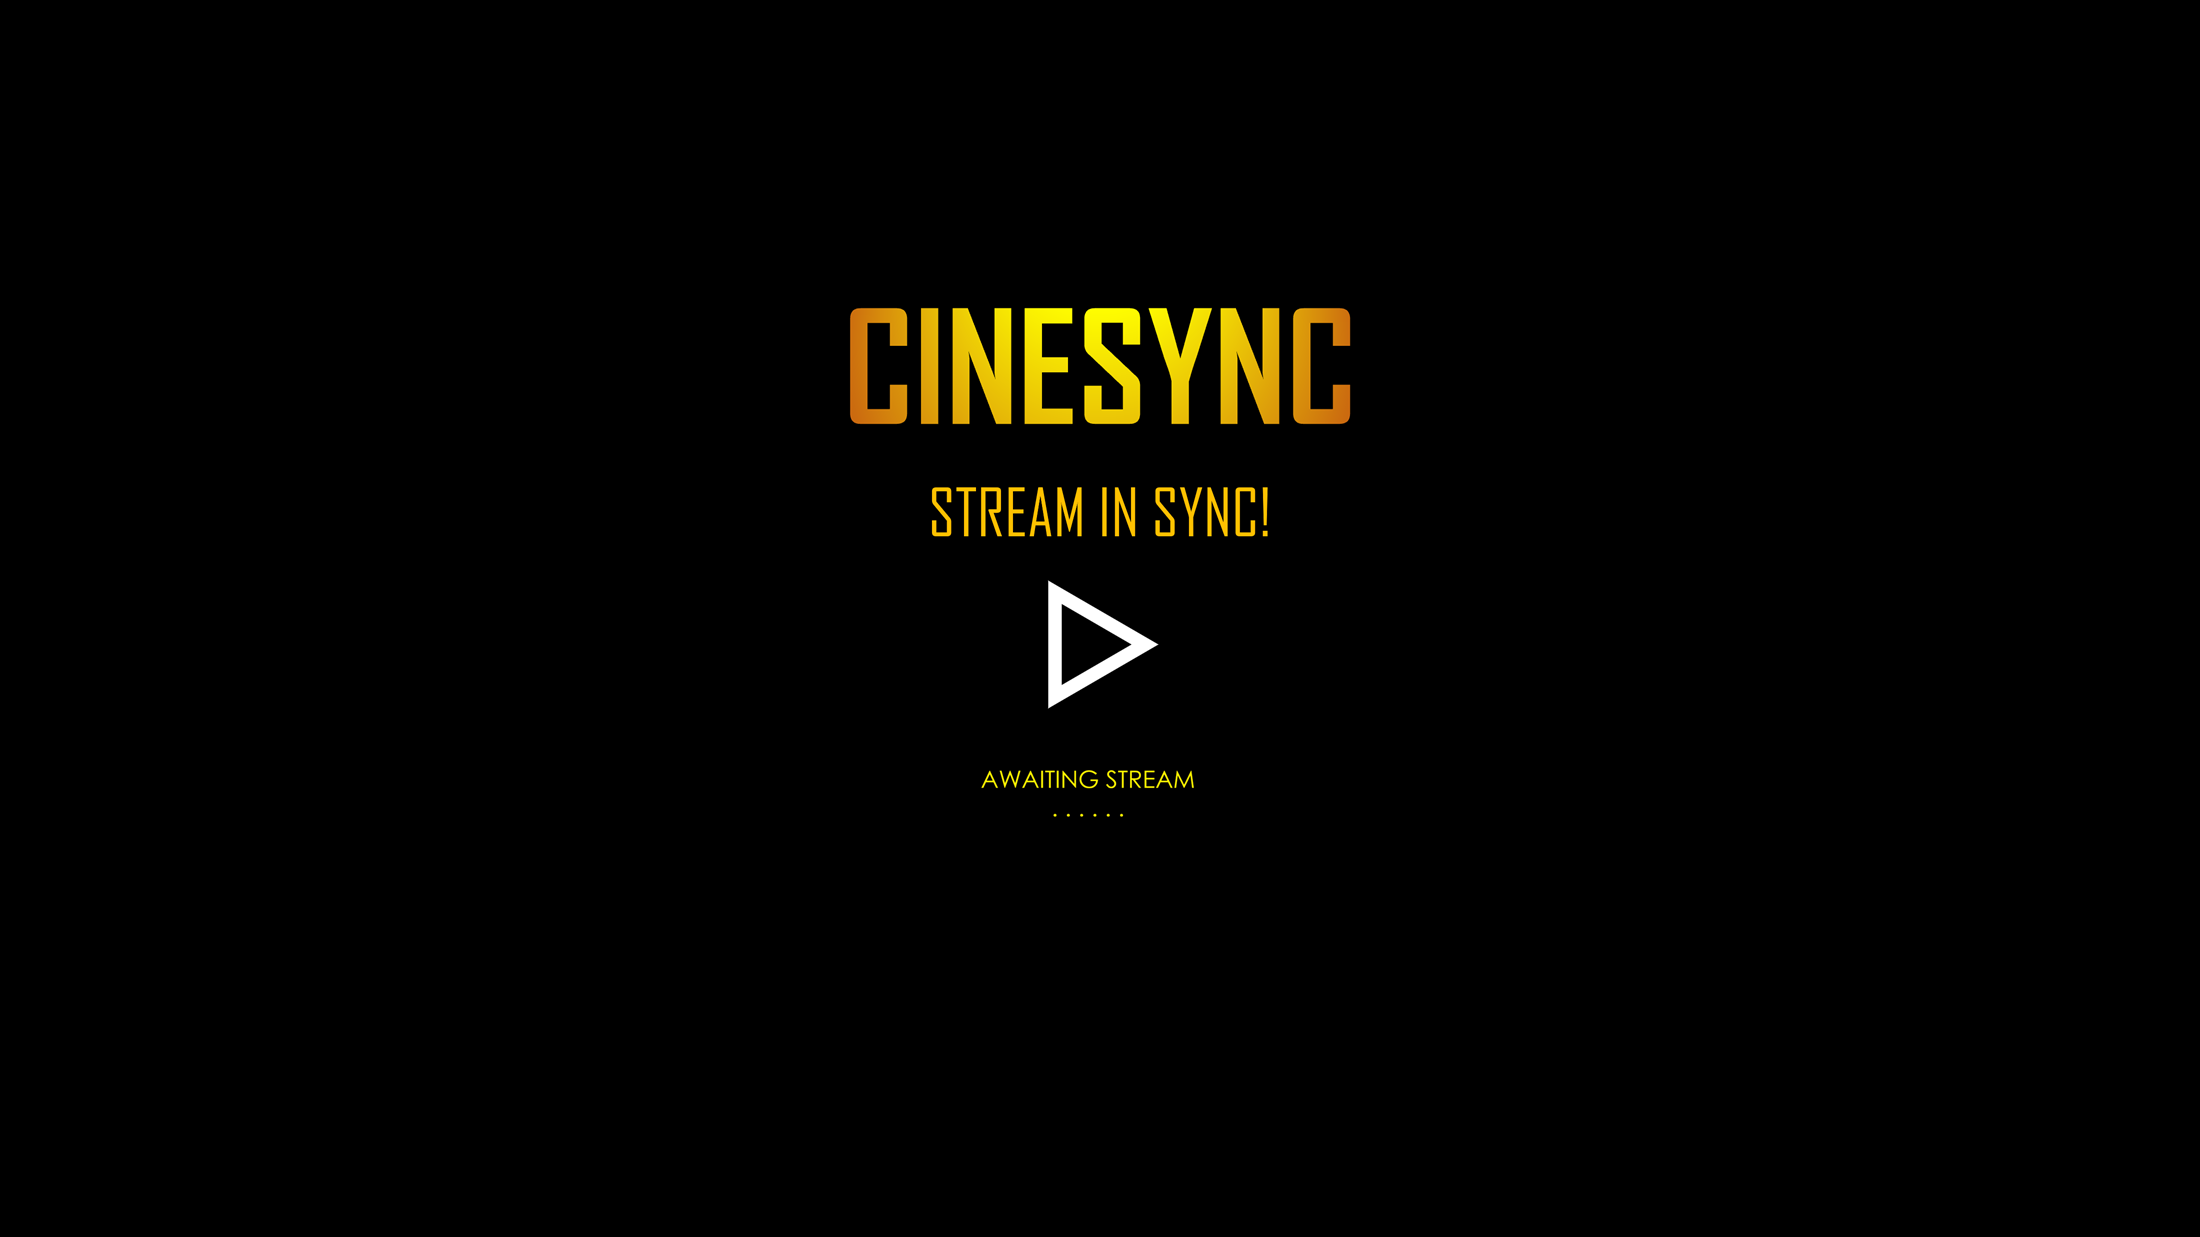
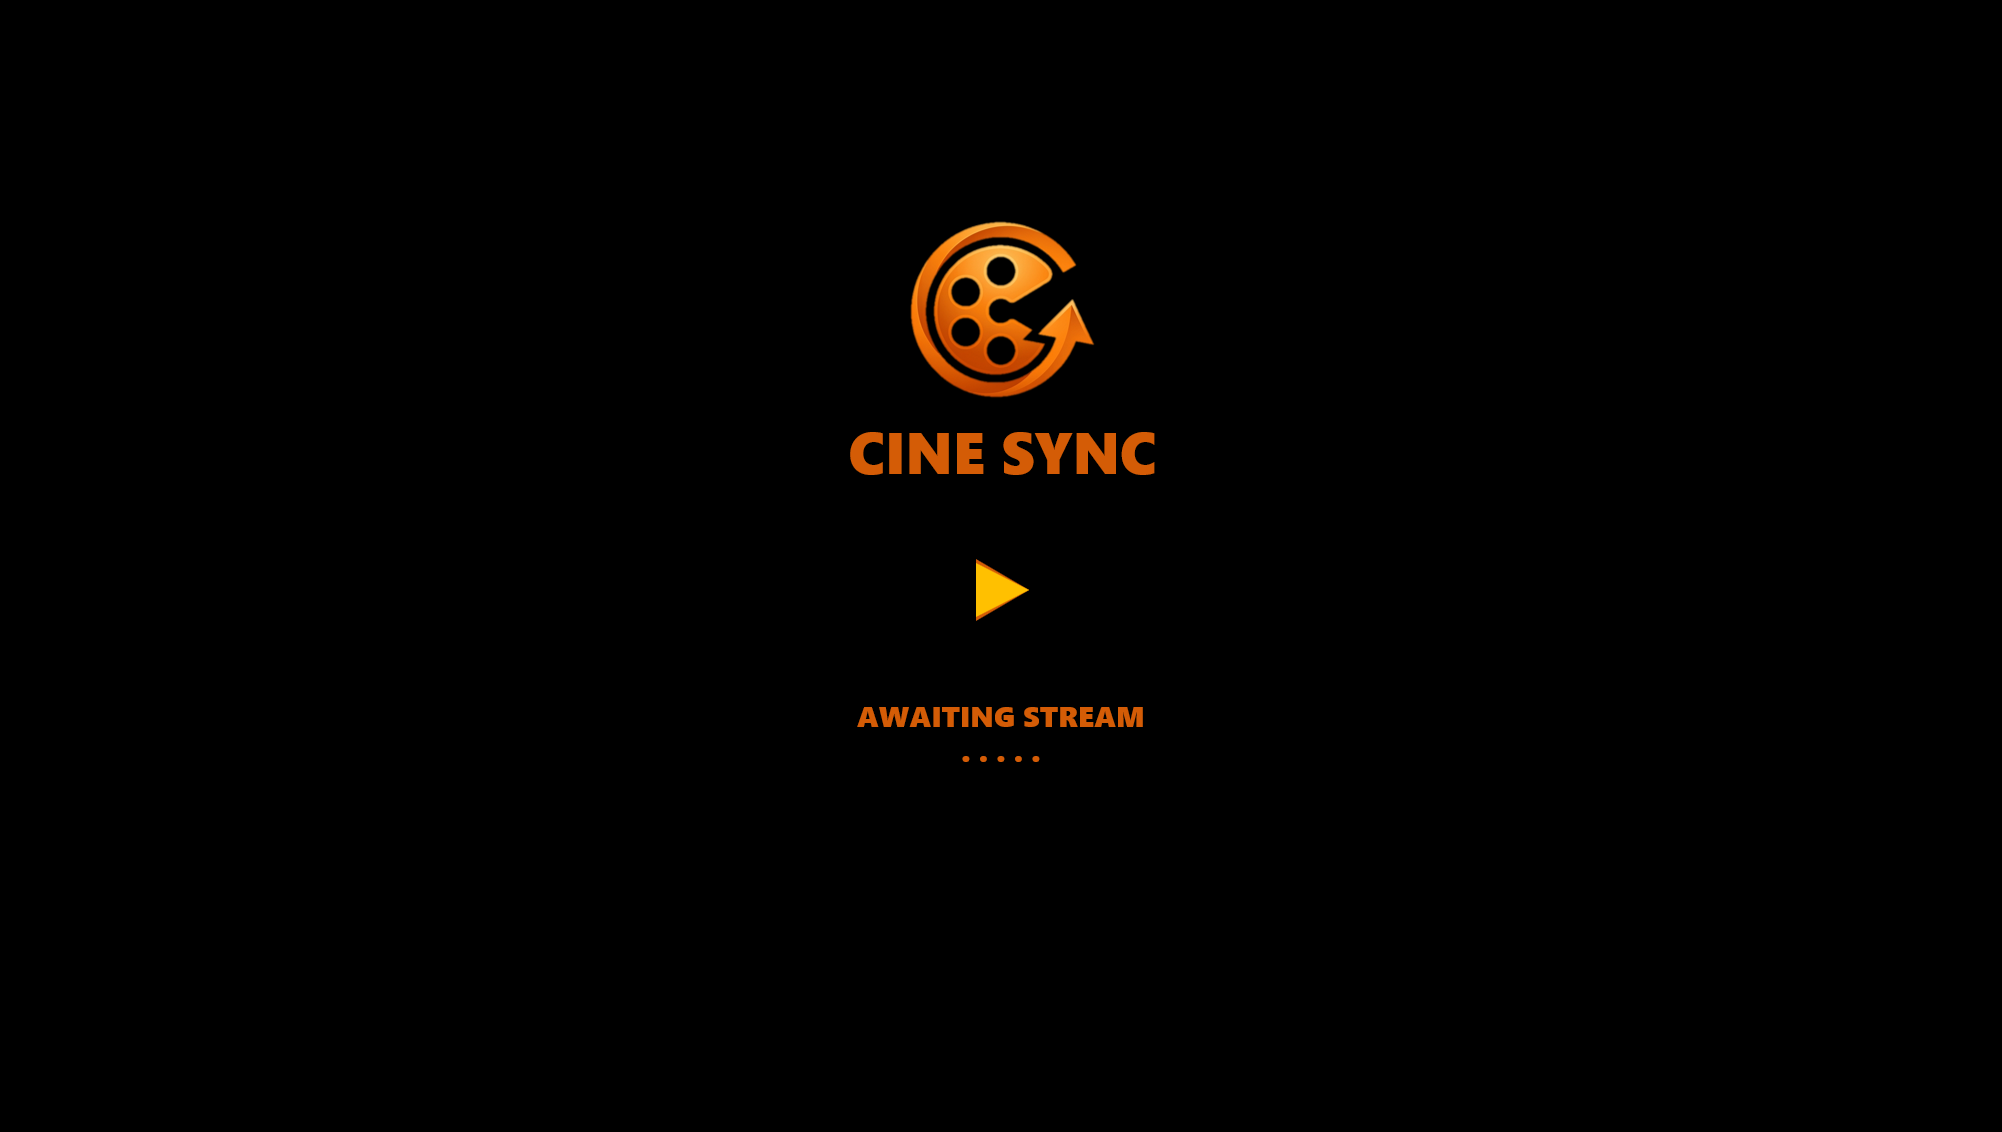
LogoReveal Aesthetics

Changed region(s): [[0.3716, 0.1855, 0.6194, 0.4329], [0.4645, 0.4638, 0.5265, 0.5875], [0.4336, 0.6184, 0.5884, 0.6493]]

diff --git a/tv/index.html b/tv/index.html
@@ -3,7 +3,7 @@
 <head>
     <meta charset="UTF-8">
     <meta name="viewport" content="width=device-width, initial-scale=1.0">
-    <title>CineSync TV (Vanilla JS)</title>
+    <title>CineSync TV</title>
     
     <script src="https://cdn.socket.io/4.7.2/socket.io.min.js"></script>
     <script src="https://cdn.jsdelivr.net/npm/hls.js@latest"></script>
@@ -28,6 +28,59 @@
             overflow: hidden;
         }
 
+        /* --- INTRO & WELCOME SCREEN --- */
+        #intro-screen {
+            position: fixed;
+            top: 0; left: 0;
+            width: 100vw; height: 100vh;
+            background-color: #000;
+            z-index: 9999;
+            display: flex;
+            align-items: center;
+            justify-content: center;
+            transition: opacity 1s ease-in-out;
+        }
+
+        #welcome-content {
+            background: rgba(20, 20, 20, 0.95);
+            padding: 40px;
+            border-radius: 15px;
+            box-shadow: 0 10px 40px rgba(0,0,0,0.8);
+            text-align: center;
+            z-index: 2;
+            border: 1px solid #333;
+            zoom: 1.2;
+        }
+
+        #welcome-content h2 { margin: 0 0 10px 0; color: var(--brand-color); font-weight: 800;}
+        #welcome-content p { font-size: 1.2rem; margin: 10px 0 25px 0; color: #ccc;}
+        #watchNameDisplay { font-size: 1.8rem; color: #fff; font-weight: bold; display: block; margin-top: 5px; }
+        
+        #btnWelcomeOk {
+            width: auto;
+            padding: 12px 50px;
+            border-radius: 8px;
+            margin: 0 auto;
+            font-size: 1.5rem;
+            font-weight: bold;
+            background: var(--brand-color);
+            color: #fff;
+            border: 2px solid transparent;
+            cursor: pointer;
+            box-shadow: var(--focus-glow);
+            outline: 3px solid #fff;
+            outline-offset: 3px;
+        }
+
+        #intro-video {
+            position: absolute;
+            top: 0; left: 0;
+            width: 100%; height: 100%;
+            object-fit: cover;
+            display: none; /* Hidden until OK is clicked */
+            z-index: 1;
+        }
+
         /* --- VIDEO LAYER --- */
         #video-container {
             position: absolute;
@@ -42,9 +95,8 @@
         }
 
         video::cue {
-            font-size: 0.7em; /* Change this value to adjust font size */
-            color: white;    /* Change text color */
-            background: rgba(0, 0, 0, 0.7); /* Background color with transparency */
+            color: #fff; background: transparent;
+            font-size: 0.7em; text-shadow: 0 2px 4px #000, 0 0 8px #000;
         }
 
         /* --- UI OVERLAY LAYER --- */
@@ -111,7 +163,6 @@
             cursor: pointer;
         }
 
-        /* CC Active Indicator */
         .tv-btn.active {
             background: rgba(255, 255, 255, 0.95) !important;
             color: var(--bg-color) !important;
@@ -213,31 +264,21 @@
             margin-bottom: 20px;
         }
 
-        #qr-canvas img {
-            display: block;
-        }
-
-        .qr-text {
-            font-size: 1.4rem;
-            font-weight: 600;
-            text-align: center;
-            max-width: 500px;
-        }
-
-        .qr-subtext {
-            font-size: 1rem;
-            opacity: 0.6;
-            margin-top: 10px;
-        }
-
-        /* Decreased Subtitle Size */
-        video::cue {
-            color: #fff; background: transparent;
-            font-size: 0.7em; text-shadow: 0 2px 4px #000, 0 0 8px #000;
-        }
+        #qr-canvas img { display: block; }
+        .qr-text { font-size: 1.4rem; font-weight: 600; text-align: center; max-width: 500px; }
+        .qr-subtext { font-size: 1rem; opacity: 0.6; margin-top: 10px; }
     </style>
 </head>
 <body>
+
+<div id="intro-screen">
+    <div id="welcome-content">
+        <h2>Welcome</h2>
+        <p>Your watch name is:<br><span id="watchNameDisplay">blue-glaring-panda</span></p>
+        <button id="btnWelcomeOk">OK</button>
+    </div>
+    <video id="intro-video" src="cinesync.mov" playsinline></video>
+</div>
 
 <div id="video-container">
     <video id="mediaPlayer" playsinline crossorigin="anonymous" poster="player-standby.png"></video>
@@ -254,7 +295,7 @@
             <span style="opacity: 0.5;">|</span>
             <span>#<span id="roomCodeDisplay">...</span></span>
             <span style="opacity: 0.5;">|</span>
-            <span>v1.0.4</span>
+            <span>v1.0.5</span>
         </div>
     </div>
 
@@ -288,6 +329,54 @@
 </div>
 
 <script>
+    // --- 0. INTRO REVEAL LOGIC ---
+    let isWelcomeScreen = true; // Traps D-pad focus until OK is pressed
+    
+    const introScreen = document.getElementById('intro-screen');
+    const welcomeContent = document.getElementById('welcome-content');
+    const introVideo = document.getElementById('intro-video');
+    const btnWelcomeOk = document.getElementById('btnWelcomeOk');
+    const watchNameDisplay = document.getElementById('watchNameDisplay');
+
+    // Generate a random watch name
+    const adjectives = ['blue', 'glaring', 'sleepy', 'rapid', 'quiet', 'fierce', 'gentle', 'bold', 'lucky', 'clever'];
+    const animals = ['panda', 'fox', 'tiger', 'bear', 'wolf', 'eagle', 'dolphin', 'owl', 'hawk', 'koala'];
+    const randomAdjective1 = adjectives[Math.floor(Math.random() * adjectives.length)];
+    const randomAdjective2 = adjectives[Math.floor(Math.random() * adjectives.length)];
+    const randomAnimal = animals[Math.floor(Math.random() * animals.length)];
+    watchNameDisplay.innerText = `${randomAdjective1}-${randomAdjective2}-${randomAnimal}`;
+
+    // Handle OK Click (User Gesture unlocks Audio)
+    btnWelcomeOk.addEventListener('click', startIntroSequence);
+
+    function startIntroSequence() {
+        isWelcomeScreen = false;
+        welcomeContent.style.display = 'none';
+        introVideo.style.display = 'block';
+        
+        // Safety fallback: if video fails to play, clear screen after 8s
+        let introFallbackTimer = setTimeout(dismissIntro, 8000);
+
+        introVideo.play().catch(e => {
+            console.warn("Playback blocked or failed:", e);
+            dismissIntro(); 
+        });
+
+        introVideo.onended = () => {
+            clearTimeout(introFallbackTimer);
+            dismissIntro();
+        };
+    }
+
+    function dismissIntro() {
+        introScreen.style.opacity = '0';
+        setTimeout(() => {
+            introScreen.style.display = 'none';
+            // Start listening to regular UI focus
+            renderFocus();
+        }, 1000);
+    }
+
     // --- 1. CORE PROPERTIES ---
     const SOCKET_URL = "https://socket.elvistony.dev";
     let socket = null;
@@ -323,6 +412,8 @@
     let previousTopRowIndex = 1;
 
     function renderFocus() {
+        if (isWelcomeScreen) return; // Prevent focus rings from showing behind the welcome modal
+
         focusables.forEach(el => el.classList.remove('tv-focused'));
         if (qrModal.classList.contains('active')) return; 
         focusables[currentFocusIndex].classList.add('tv-focused');
@@ -332,22 +423,20 @@
         }
     }
 
-    renderFocus();
-
     uiLayer.addEventListener('click', (e) => {
-        showUI();
+        if (!isWelcomeScreen) showUI();
     });
 
     focusables.forEach((el, index) => {
         el.addEventListener('mouseenter', () => {
-            if (qrModal.classList.contains('active')) return;
+            if (qrModal.classList.contains('active') || isWelcomeScreen) return;
             currentFocusIndex = index;
             renderFocus();
         });
 
         el.addEventListener('click', (e) => {
             e.stopPropagation(); 
-            if (qrModal.classList.contains('active')) return;
+            if (qrModal.classList.contains('active') || isWelcomeScreen) return;
             
             currentFocusIndex = index;
             renderFocus();
@@ -369,6 +458,15 @@
     });
 
     document.addEventListener('keydown', (e) => {
+        // Trap focus if we are on the welcome screen
+        if (isWelcomeScreen) {
+            if (e.key === 'Enter' || e.key === ' ') {
+                e.preventDefault();
+                startIntroSequence();
+            }
+            return;
+        }
+
         if (qrModal.classList.contains('active')) {
             e.preventDefault();
             if (e.key === 'Enter' || e.key === ' ') {
@@ -555,7 +653,7 @@
 
     let uiTimeout;
     function showUI() {
-        if (qrModal.classList.contains('active')) return;
+        if (qrModal.classList.contains('active') || isWelcomeScreen) return;
         uiLayer.style.opacity = '1';
         clearTimeout(uiTimeout);
         if (!video.paused) {
@@ -631,11 +729,9 @@
         try {
             let res;
             try {
-                // Attempt standard fetch
                 res = await fetch(vttUrl);
                 if (!res.ok) throw new Error("Network response was not ok");
             } catch (corsError) {
-                // If CORS blocks it, route through a public proxy
                 console.warn("Direct subtitle fetch blocked by CORS. Using proxy...");
                 res = await fetch(`https://corsproxy.io/?${encodeURIComponent(vttUrl)}`);
                 if (!res.ok) throw new Error("Proxy fetch failed");
@@ -643,13 +739,11 @@
             
             let text = await res.text();
             
-            // If no offset is needed, just return the blob directly
             if (offsetMs === 0) {
                 const blob = new Blob([text], { type: 'text/vtt' });
                 return URL.createObjectURL(blob);
             }
             
-            // Regex to match standard VTT timestamps (HH:MM:SS.mmm or MM:SS.mmm)
             const timeRegex = /(?:(\d{2,}):)?(\d{2}):(\d{2})\.(\d{3})/g;
             
             text = text.replace(timeRegex, (match, h, m, s, ms) => {
@@ -657,7 +751,7 @@
                 if (h) time += parseInt(h) * 3600000;
                 
                 time += offsetMs;
-                if (time < 0) time = 0; // Prevent negative time
+                if (time < 0) time = 0;
                 
                 const newH = Math.floor(time / 3600000);
                 time %= 3600000;
@@ -674,7 +768,7 @@
             return URL.createObjectURL(blob);
         } catch (e) {
             console.error("Critical failure fetching subtitles:", e);
-            return vttUrl; // Fallback to raw URL as a last resort
+            return vttUrl; 
         }
     }
 
@@ -686,7 +780,14 @@
         const url = context.url;
         if (!url) return;
 
-        // Catch embedded third-party streams and route to standalone iframe player
+        // Redirect Mode
+        if (url.startsWith("@REDIRECT@")) {
+            const redirectUrl = url.replace("@REDIRECT@", "");
+            window.location.replace(redirectUrl);
+            return;
+        }
+
+        // Embedded Third-Party Streams Mode
         if (url.startsWith("@EMBED@")) {
             const embedUrl = url.replace("@EMBED@", "");
             window.location.href = `../crosssource/index.html#${encodeURIComponent(embedUrl)}`;
@@ -707,11 +808,9 @@
             video.appendChild(track);
             track.mode = 'showing';
             
-            // Set initial UI state for CC Button (ON / ACTIVE)
             btnCC.classList.add('active');
             btnCC.style.opacity = '1';
         } else {
-            // Set initial UI state for CC Button (DISABLED/OFF)
             btnCC.classList.remove('active');
             btnCC.style.opacity = '0.3';
         }